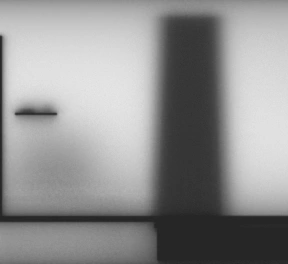
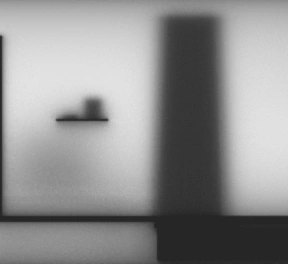
Lower the study camera and balance the window ledge, print and writing chair

Changed region(s): [[0.0312, 0.3333, 0.4062, 0.5152]]

diff --git a/site/room.js b/site/room.js
@@ -204,14 +204,10 @@ export function buildHome(previewUrl, onUpdate, lifecycle = {}) {
   }
   blind.geometry.computeVertexNormals();
   box(.026,.020,1.626,-3.26,1.742,2.42,oak);
-  // A short oak ledge picks up the window reveal without putting a line behind the display.
-  box(.18,.023,.49,-3.22,1.73,1.16,paleOak);
-  for(const [i,cover] of [sage,cream,walnut].entries()) {
-    const book=rounded(.115,.019,.19,-3.20,1.752+.020*i,1.26,cover,scene,.002);
-    book.rotation.y=(i-1)*.035;
+  for (const [i,cover] of [walnut,sage].entries()) {
+    const volume=rounded(.148,.025,.216,-3.22,.827+i*.026,2.55,cover,scene,.003);
+    volume.rotation.y=.06-i*.10;
   }
-  const budProfile=[[0,0],[.037,0],[.045,.025],[.043,.065],[.025,.086],[.019,.102],[.014,.102],[.014,.088]];
-  add(new THREE.LatheGeometry(budProfile.map(([r,h])=>new THREE.Vector2(r,h)),48),ceramic,-3.21,1.742,1.02,scene);
   const reflectedGlass = new THREE.MeshPhysicalMaterial({
     transparent:true, opacity:.04, color:0x81928f, roughness:.12, metalness:.76, depthWrite:false
   });
@@ -262,6 +258,18 @@ export function buildHome(previewUrl, onUpdate, lifecycle = {}) {
 
   const inkPrint = surfaceMap('./media/study/circuit-study.webp',1,1);
   const printPaper=material(0xfffcf5,.99,0,inkPrint);
+  // From the front, the sill plant and this smaller print flank the monitor at different heights.
+  const displayLedge = group(-3.22,1.66,.62);
+  box(.18,.023,.61,0,0,0,paleOak,displayLedge);
+  for (const [i,cover] of [sage,cream,walnut].entries()) {
+    const book=rounded(.115,.019,.19,.02,.022+.020*i,.14,cover,displayLedge,.002);
+    book.rotation.y=(i-1)*.035;
+  }
+  const studyPrint = group(.002,.012,-.13,displayLedge);
+  studyPrint.rotation.set(-.12,Math.PI/2,0,'YXZ');
+  box(.205,.236,.013,0,.118,0,walnut,studyPrint);
+  box(.195,.226,.002,0,.118,.007,cream,studyPrint);
+  add(new THREE.PlaneGeometry(.164,.193),printPaper,0,.118,.009,studyPrint);
   // Low window joinery follows the glazing and turns into a reading seat at its far end.
   const windowSeat=group(-2.94,0,-1.71);
   box(.74,.37,2.92,0,.23,0,paleOak,windowSeat);
@@ -299,7 +307,7 @@ export function buildHome(previewUrl, onUpdate, lifecycle = {}) {
   }
 
   contactShadow(.55,.007,-1.63,1.32,1.16,.68);
-  contactShadow(-2.74,.005,3.36,.82,.72,.72);
+  contactShadow(-3.23,.814,2.29,.28,.29,.52);
 
 
   // Furniture is loaded independently of the clickable screen.
@@ -414,7 +422,7 @@ export function buildHome(previewUrl, onUpdate, lifecycle = {}) {
   const bowlShape=[[0,0],[.084,0],[.092,.02],[.16,.074],[.158,.084],[.142,.08],[.077,.033],[0,.022]];
   add(new THREE.LatheGeometry(bowlShape.map(([r,h])=>new THREE.Vector2(r,h)),64),
     ceramic,-1.29,.623,.19,library);
-  placeModel('./media/study/potted_plant_01.glb',scene,-2.74,.014,3.36,.96,-.50);
+  placeModel('./media/study/potted_plant_01.glb',scene,-3.23,.814,2.29,.47,-.50);
 
   // ==================== HERO ARCHITECT STUDIO DESK ====================
   const desk = group(-2.65, 0, .88);
@@ -742,8 +750,8 @@ export function buildHome(previewUrl, onUpdate, lifecycle = {}) {
   setPreview(previewUrl);
 
   // A light ash writing chair with a continuous curved plywood back and a linen seat.
-  const writingChair=group(.76,0,.91,desk);
-  writingChair.rotation.y=-.39;
+  const writingChair=group(-.53,0,.53,desk);
+  writingChair.rotation.y=-.94;
   const seat=add(new THREE.SphereGeometry(1,56,24),paleOak,0,.438,0,writingChair);
   seat.scale.set(.245,.023,.222);
   const upholstery=add(new THREE.SphereGeometry(1,56,24),mossLinen,0,.461,-.005,writingChair);

diff --git a/site/lab.js b/site/lab.js
@@ -380,9 +380,9 @@ async function initRoom() {
       // to leave breathing room on the garden side, without turning it toward the monitor.
       const wide = THREE.MathUtils.smoothstep(camera.aspect,.72,1.45);
       const mix = (phone, landscape) => THREE.MathUtils.lerp(phone, landscape, wide);
-      const z = mix(1.075,1.30);
-      deskShot.position.set(mix(-.27,-.54),mix(1.45,1.35),z);
-      deskShot.lookAt(-2.85,mix(1.08,1.18),z);
+      const z = mix(1.12,1.30);
+      deskShot.position.set(mix(.16,-.13),mix(1.34,1.23),z);
+      deskShot.lookAt(-2.85,mix(1.01,1.05),z);
       return { position: deskShot.position.clone(), orientation: deskShot.quaternion.clone() };
     }
     function fitMonitor() {
